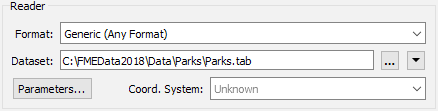
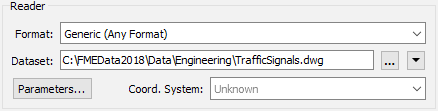
Adv Ch2 2018.1 and Grammarly review + changes for instructor workspaces

Changed region(s): [[0.1187, 0.4865, 0.742, 0.5946]]

diff --git a/DesktopAdvanced3AdvancedR+W/3.06.GenericReadWrite.md b/DesktopAdvanced3AdvancedR+W/3.06.GenericReadWrite.md
@@ -14,12 +14,13 @@ A Generic Reader is used in the same way as any other reader; by specifying the 
 
 ![](./Images/Img3.025.SettingGenericReader.png)
 
-There the source dataset is a MapInfo TAB dataset, but FME does not know that yet. When the workspace is run FME examines the extension of the file chosen to determine this for itself.
+There the source dataset is an AutoCAD DWG dataset, but FME does not know that yet. When the workspace is run FME examines the extension of the file chosen to determine this for itself.
+
 At a later time the end-user might then choose a different file - in a completely different format - to be read, like so:
 
 ![](./Images/Img3.026.GenericReaderDataSelect.png)
 
-Again, at run time FME examines the file extension to identify the format of data and then - having discovered it is GML - will read it just as if it were a true GML reader.
+Again, at runtime FME examines the file extension to identify the format of data and then - having discovered it is MicroStation DGN - reads it just as if it were a true DGN reader.
 
 That way a single reader can be made to read any format of data.
 
@@ -36,7 +37,7 @@ That way a single reader can be made to read any format of data.
 <tr>
 <td style="border: 1px solid darkorange">
 <span style="font-family:serif; font-style:italic; font-size:larger">
-You're thinking there must be a catch, right? Well it's true. Firstly this technique only works with file-based formats (it won't work on a database or web format). Secondly, the Generic Reader is not immune from the Unexpected Input Remover, so switching datasets - regardless of format - only works with a compatible schema (see below).
+You're thinking there must be a catch, right? Well, it's true. Firstly this technique only works with file-based formats (it won't work on a database or web format). Secondly, the Generic Reader is not immune from the Unexpected Input Remover, so switching datasets - regardless of format - only works with a compatible schema (see below).
 </span>
 </td>
 </tr>
@@ -45,13 +46,14 @@ You're thinking there must be a catch, right? Well it's true. Firstly this techn
 ---
 
 ### Generic Reader Feature Types ###
-The Unexpected Input Remover is the function in FME that filters incoming data against the list of feature types (layers) that are defined in the workspace. If the incoming data is stored on a layer that is not defined in the workspace, then it will be dropped from the translation. 
+The Unexpected Input Remover is the function in FME that filters incoming data against the list of permitted feature types. If the incoming data is not defined in the workspace, then it is dropped from the translation. 
 
-So say, for example, that the Parks.gml dataset contained a layer called CityParks, when the original MapInfo dataset contained a layer called Parks, then this would be the result:
+In the previous example, traffic signals in the AutoCAD dataset were stored on a layer called "TrafficSignals", and the workspace names the reader feature type so. But, if the MicroStation file stored data on a different layer, then this would be the result:
 
 ![](./Images/Img3.027.GenericReaderUnexpectedInput.png)
 
-So, although the Generic Reader allows you to read datasets of different formats, the limitation is that each dataset must have its layers defined as feature types in the workspace unless you want them to be dropped.
+All 778 records were dropped from the translation. So, although the Generic Reader allows you to read datasets of different formats, the limitation is that each dataset must have its layers defined as feature types in the workspace.
+
 Of course, an easy way to allow all layers to pass is to set a Merge Feature Type in the Feature Type Properties:
 
 ![](./Images/Img3.028.GenericReaderMergeFilter.png)
@@ -90,12 +92,10 @@ That way a single writer can be made to write any format of data, the format bei
 <tr>
 <td style="border: 1px solid darkorange">
 <span style="font-family:serif; font-style:italic; font-size:larger">
-Generic Readers and Writers by nature only deal with a flexible format, but can also be set up to be flexible with layers using a Merge Filter and/or Fanout.
-<br><br>However, each dataset being read must have the same attribute schema, and each dataset being written will end up with the same attribute schema. This part is not flexible.
+Generic Readers and Writers by nature only deal with a flexible format, but can also be set up to be flexible with layers using a Merge Filter or Fanout.
+<br><br>However, each dataset being read must have the same attribute schema. Additionally, each dataset written receives an identical attribute schema. This part is not flexible.
 <br><br>Flexible attribute schemas require the use of either Automatic Attribute Definitions or a Dynamic Translation.
 </span>
 </td>
 </tr>
 </table>
-
---- 
